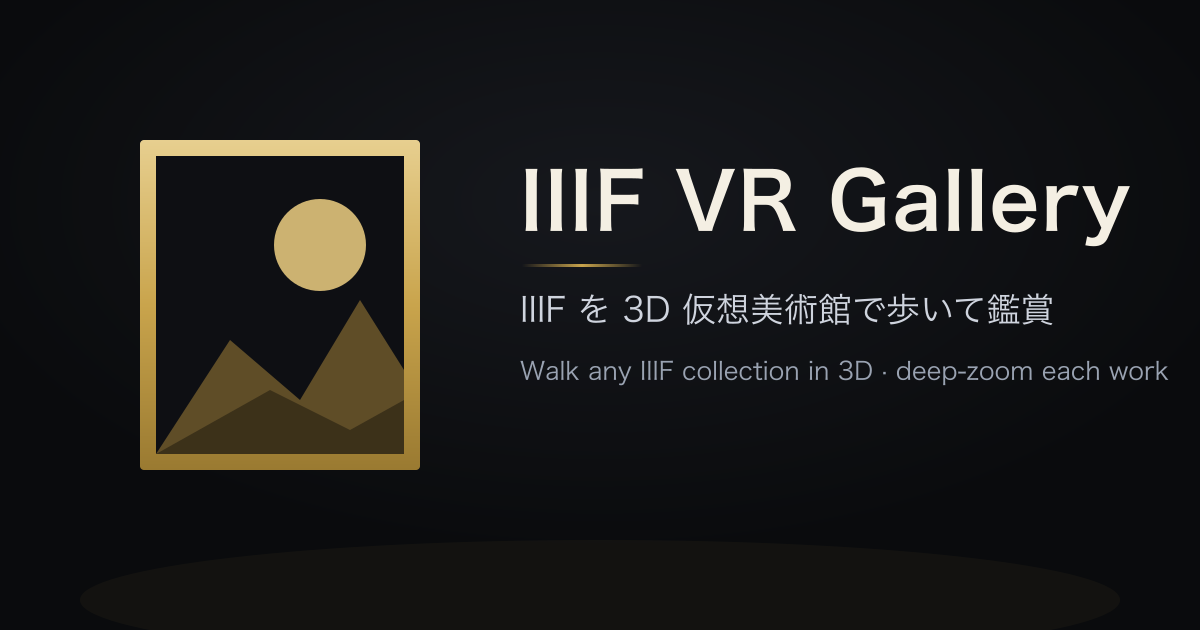
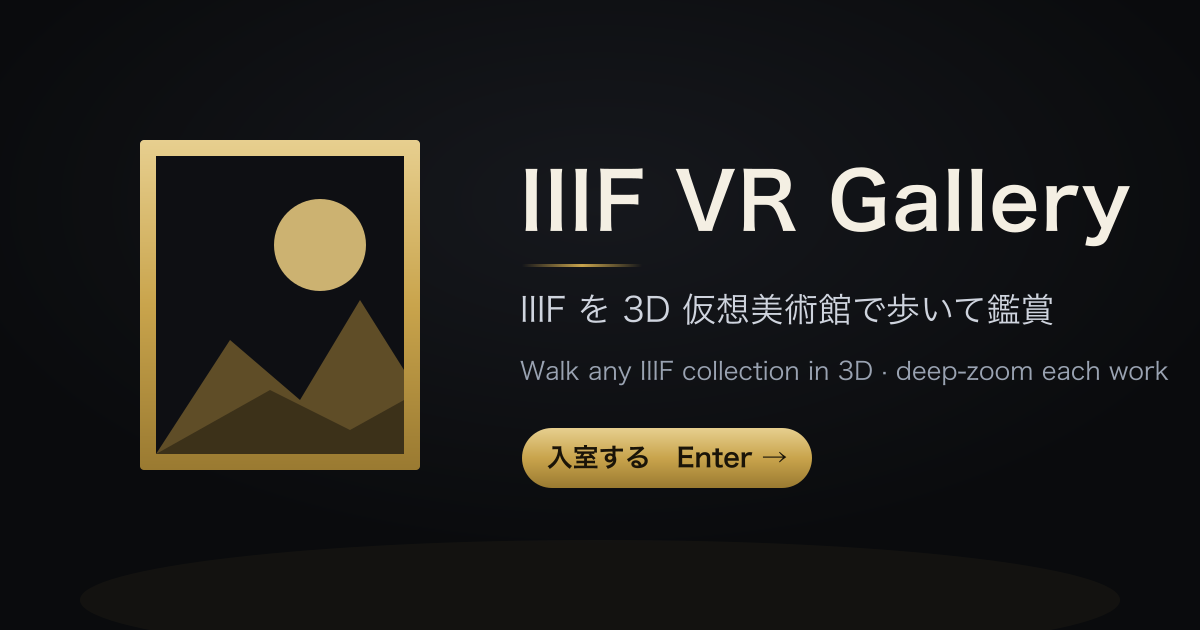
トップページ(ロビー)に使い方動画(YouTube限定公開)を埋め込み
config.tutorialVideoId(=JMBn4cuI-Yw)があるとき、ロビーに「▶ 使い方を見る」を表示。
押すとモーダルに YouTube iframe を生成して再生、閉じると iframe を破棄して停止。
Esc/背景クリックでも閉じる。OG画像も更新。

Changed region(s): [[0.4317, 0.6635, 0.6783, 0.7841]]

diff --git a/docs/index.html b/docs/index.html
@@ -5,7 +5,7 @@
   <meta name="viewport" content="width=device-width, initial-scale=1" />
 
   <!-- ============ SEO / 基本メタ ============ -->
-  <title>IIIF VR Gallery — IIIF を 3D 仮想美術館で歩いて鑑賞</title>
+  <title>IIIF VR Gallery — どんな IIIF も 3D 仮想美術館で歩いて鑑賞・超高精細ズーム</title>
   <meta name="description" content="任意の IIIF（Curation / Collection / Manifest）を 3D の仮想美術館として歩いて鑑賞し、各作品を IIIF タイルで超高精細にズームできるビューア。世界中の所蔵機関のコレクションを、誰のものでも 3D 空間で楽しめます。" />
   <meta name="keywords" content="IIIF, VR, 3D, 仮想美術館, バーチャル美術館, ギャラリー, OpenSeadragon, deep zoom, ディープズーム, デジタルアーカイブ, WebXR, virtual museum, three.js" />
   <meta name="author" content="Satoru Nakamura" />
@@ -28,8 +28,8 @@
   <!-- ============ Open Graph (Facebook / LINE / Slack / Discord 等) ============ -->
   <meta property="og:type" content="website" />
   <meta property="og:site_name" content="IIIF VR Gallery" />
-  <meta property="og:title" content="IIIF VR Gallery — IIIF を 3D 仮想美術館で歩いて鑑賞" />
-  <meta property="og:description" content="任意の IIIF を 3D の仮想美術館として歩いて鑑賞し、各作品を IIIF タイルで超高精細にズーム。世界中のコレクションを 3D 空間で。" />
+  <meta property="og:title" content="IIIF VR Gallery — どんな IIIF も 3D 仮想美術館で歩いて鑑賞・超高精細ズーム" />
+  <meta property="og:description" content="任意の IIIF（Curation / Collection / Manifest）を 3D の仮想美術館として歩いて鑑賞し、各作品を IIIF タイルで超高精細にズーム。世界中の所蔵機関のコレクションを、誰のものでも 3D 空間で自由に楽しめます。" />
   <meta property="og:url" content="https://nakamura196.github.io/iiif-vr-gallery/" />
   <meta property="og:image" content="https://nakamura196.github.io/iiif-vr-gallery/og-image.png" />
   <meta property="og:image:type" content="image/png" />
@@ -41,8 +41,8 @@
 
   <!-- ============ Twitter / X Card ============ -->
   <meta name="twitter:card" content="summary_large_image" />
-  <meta name="twitter:title" content="IIIF VR Gallery — IIIF を 3D 仮想美術館で歩いて鑑賞" />
-  <meta name="twitter:description" content="任意の IIIF を 3D の仮想美術館として歩いて鑑賞し、各作品を超高精細にズーム。" />
+  <meta name="twitter:title" content="IIIF VR Gallery — どんな IIIF も 3D 仮想美術館で歩いて鑑賞・超高精細ズーム" />
+  <meta name="twitter:description" content="任意の IIIF（Curation / Collection / Manifest）を 3D の仮想美術館として歩いて鑑賞し、各作品を IIIF タイルで超高精細にズーム。世界中の所蔵機関のコレクションを、誰のものでも 3D 空間で自由に楽しめます。" />
   <meta name="twitter:image" content="https://nakamura196.github.io/iiif-vr-gallery/og-image.png" />
   <meta name="twitter:image:alt" content="IIIF VR Gallery のキービジュアル" />
 
@@ -165,6 +165,22 @@
     #entrance-url-go { background: rgba(255,255,255,.1); color: #eaecef; cursor: pointer;
       border: 1px solid rgba(255,255,255,.18); border-radius: 8px; padding: 9px 16px; font-size: 13px; }
     #entrance-url-go:hover { background: rgba(255,255,255,.2); }
+    /* 使い方動画ボタン */
+    #entrance-tut { margin-top: 4px; background: transparent; color: #c9a44c; cursor: pointer;
+      border: 1px solid rgba(201,164,76,.45); border-radius: 999px; padding: 8px 18px; font-size: 12px;
+      letter-spacing: .08em; transition: background .15s, color .15s, border-color .15s; }
+    #entrance-tut:hover { background: rgba(201,164,76,.12); color: #f4efe3; border-color: #c9a44c; }
+    /* 使い方動画モーダル */
+    #tut-modal { position: fixed; inset: 0; z-index: 120; display: none; align-items: center;
+      justify-content: center; padding: 4vmin; background: rgba(6,7,9,.86); backdrop-filter: blur(6px); }
+    #tut-modal.show { display: flex; }
+    #tut-frame { width: min(1100px, 94vw); aspect-ratio: 16 / 9; max-height: 88vh; border-radius: 12px;
+      overflow: hidden; box-shadow: 0 20px 60px rgba(0,0,0,.6); border: 1px solid rgba(201,164,76,.25); }
+    #tut-embed, #tut-embed iframe { width: 100%; height: 100%; border: 0; display: block; }
+    #tut-close { position: absolute; top: 20px; right: 22px; width: 42px; height: 42px; border-radius: 50%;
+      border: 1px solid rgba(255,255,255,.18); background: rgba(12,13,16,.7); color: #eaecef; font-size: 22px;
+      line-height: 1; cursor: pointer; }
+    #tut-close:hover { background: rgba(40,44,52,.9); }
     .ex-card { position: relative; width: 300px; height: 210px; border-radius: 14px; overflow: hidden;
       border: 1px solid rgba(255,255,255,.12); cursor: pointer; padding: 0; color: #fff;
       background-size: cover; background-position: center; background-color: #1b1e24;
@@ -268,6 +284,13 @@
       <input id="entrance-url-input" type="url" data-i18n-ph="urlPlaceholder" />
       <button id="entrance-url-go" type="submit" data-i18n="urlLoad">Load</button>
     </form>
+    <button id="entrance-tut" type="button" hidden data-i18n="tutWatch">▶ 使い方を見る</button>
+  </div>
+
+  <!-- 使い方動画(YouTube埋め込み)モーダル -->
+  <div id="tut-modal">
+    <button id="tut-close" title="閉じる (Esc)">×</button>
+    <div id="tut-frame"><div id="tut-embed"></div></div>
   </div>
 
   <div id="osd-overlay">

diff --git a/docs/src/entrance.js b/docs/src/entrance.js
@@ -30,6 +30,32 @@ export function setupEntranceUI() {
   $("#entrance-enter").addEventListener("click", () => {
     if (selectedEx) selectExhibition(selectedEx, selectedMode);
   });
+  setupTutorial();
+}
+
+// 使い方動画(YouTube埋め込み)モーダル。config.tutorialVideoId があるときだけボタンを出す。
+function setupTutorial() {
+  const vid = G.cfg.tutorialVideoId;
+  const btn = $("#entrance-tut");
+  if (!vid || !btn) return;
+  btn.hidden = false;
+  const open = () => {
+    // 開いた時だけ iframe を生成(閉じたら破棄して再生を止める)
+    $("#tut-embed").innerHTML =
+      `<iframe src="https://www.youtube.com/embed/${vid}?rel=0&autoplay=1" ` +
+      `title="tutorial" allow="autoplay; fullscreen; encrypted-media" allowfullscreen></iframe>`;
+    $("#tut-modal").classList.add("show");
+  };
+  const close = () => {
+    $("#tut-modal").classList.remove("show");
+    $("#tut-embed").innerHTML = "";
+  };
+  btn.addEventListener("click", open);
+  $("#tut-close").addEventListener("click", close);
+  $("#tut-modal").addEventListener("click", (e) => { if (e.target.id === "tut-modal") close(); });
+  window.addEventListener("keydown", (e) => {
+    if (e.key === "Escape" && $("#tut-modal").classList.contains("show")) close();
+  });
 }
 
 // config.exhibitions(後方互換: {title, subtitle, cover, source, controlMode})

diff --git a/docs/src/i18n.js b/docs/src/i18n.js
@@ -15,6 +15,7 @@ const DICT = {
     urlLabel: "自分の IIIF を見る",
     urlPlaceholder: "Curation / Collection / Manifest の URL",
     urlLoad: "読み込む",
+    tutWatch: "▶ 使い方を見る",
     panelRights: "利用条件・ライセンス",
     panelMeta: "メタデータ",
     panelSource: "IIIF ソース",
@@ -42,6 +43,7 @@ const DICT = {
     urlLabel: "View your own IIIF",
     urlPlaceholder: "Curation / Collection / Manifest URL",
     urlLoad: "Load",
+    tutWatch: "▶ Watch tutorial",
     panelRights: "Rights & License",
     panelMeta: "Metadata",
     panelSource: "IIIF source",